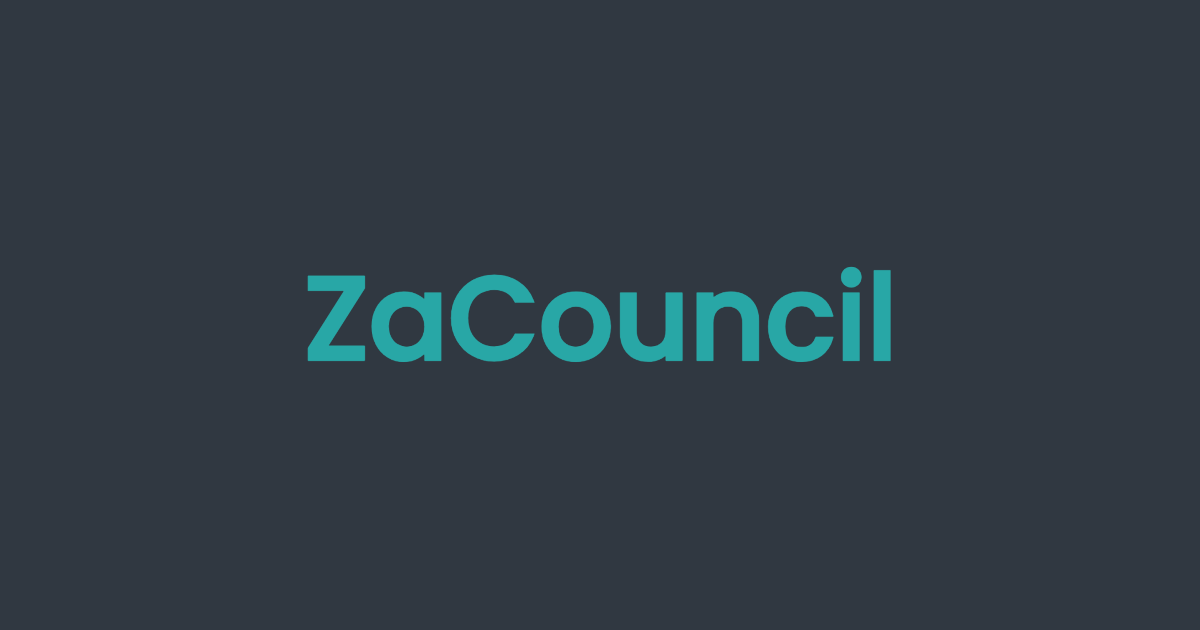
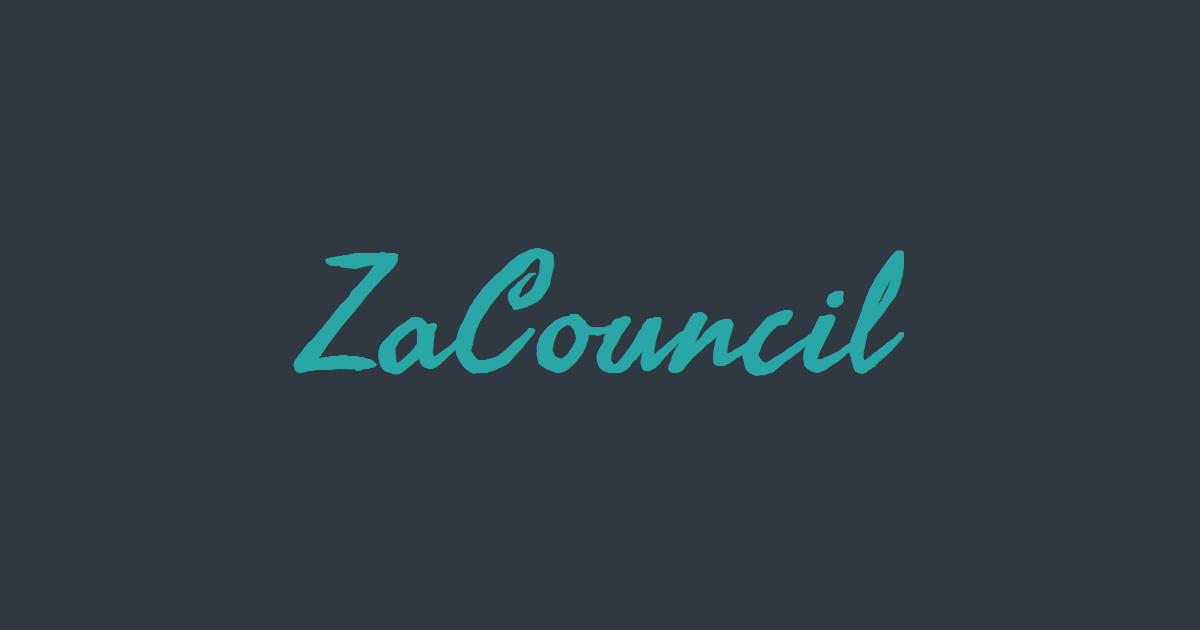
updates

Changed region(s): [[0.2467, 0.3921, 0.7708, 0.6032]]

diff --git a/index.html b/index.html
@@ -22,7 +22,8 @@
   <meta name="theme-color" content="#000000">
 
   <!-- Font -->
-  <link href="https://fonts.googleapis.com/css2?family=Poppins:wght@400;500&display=swap" rel="stylesheet">
+  <link href="https://fonts.googleapis.com/css2?family=Freehand&display=swap" rel="stylesheet">
+  <link href="https://fonts.googleapis.com/css2?family=Poppins&display=swap" rel="stylesheet">
   
   <!-- CSS -->
   <style>
@@ -129,8 +130,10 @@
     }
 
     .tealtitle {
-      color: rgb(40, 167, 166);
+      font-family: "Freehand", cursive;
       font-weight: 700;
+      font-size: 2em;
+      color: rgb(40, 167, 166);
     }
   </style>
 

diff --git a/docs/signature.html b/docs/signature.html
@@ -2,7 +2,7 @@
 <html lang="en">
 <head>
     <title>Signature</title>
-    <link href="https://fonts.googleapis.com/css2?family=Poppins:wght@400;500&display=swap" rel="stylesheet">
+    <link href="https://fonts.googleapis.com/css2?family=Poppins&display=swap" rel="stylesheet">
 </head>
 <body>
     <table style="width: 440px; font-size: 10pt; font-family: 'Poppins', sans-serif;">

diff --git a/privacy.html b/privacy.html
@@ -22,7 +22,7 @@
 	<meta name="theme-color" content="#000000">
 
 	<!-- Font -->
-	<link href="https://fonts.googleapis.com/css2?family=Poppins:wght@400;500&display=swap" rel="stylesheet">
+	<link href="https://fonts.googleapis.com/css2?family=Poppins&display=swap" rel="stylesheet">
 
 	<!-- CSS -->
 	<style>
